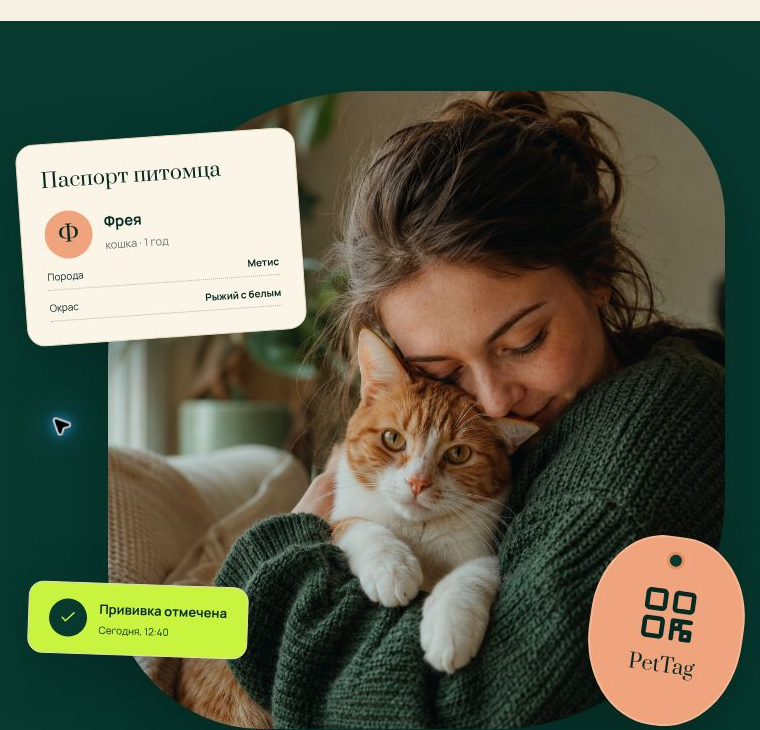
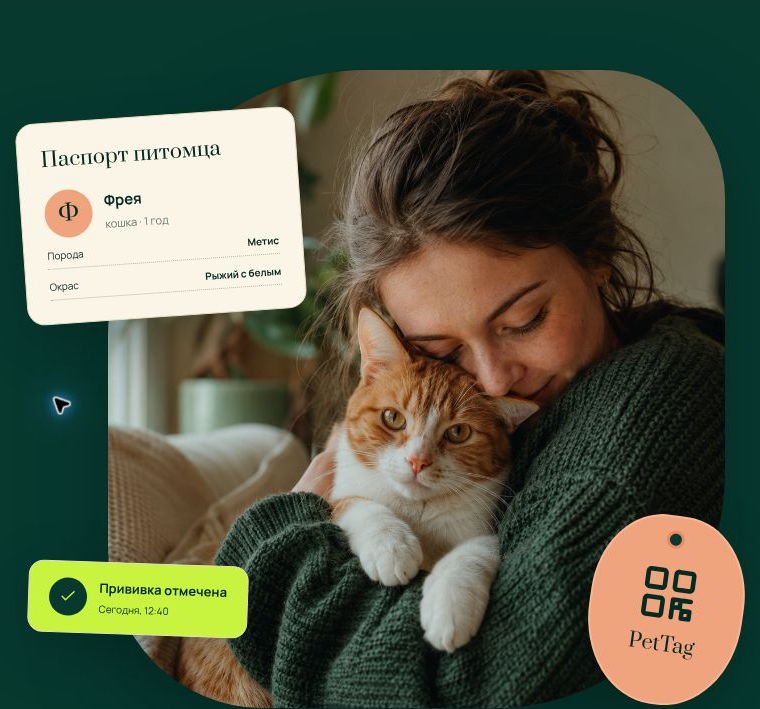
Polish landing page visuals and FAQ

diff --git a/app/assets/stylesheets/application.scss b/app/assets/stylesheets/application.scss
@@ -37,6 +37,7 @@
   margin: 0;
   background: #fffdf8;
   color: #14352d;
+  overflow-x: hidden;
 }
 
 .pj-landing-main {
@@ -68,6 +69,10 @@
   box-sizing: border-box;
 }
 
+.pj-landing {
+  overflow-wrap: anywhere;
+}
+
 .pj-landing h1,
 .pj-landing h2,
 .pj-landing h3,
@@ -88,6 +93,10 @@
   font-style: italic;
 }
 
+.pj-mobile-break {
+  display: none;
+}
+
 .pj-shell {
   width: min(1180px, calc(100% - 48px));
   margin-inline: auto;
@@ -101,23 +110,23 @@
 }
 
 .pj-header-inner {
-  min-height: 82px;
+  min-height: 78px;
   display: grid;
-  grid-template-columns: 210px 1fr auto;
+  grid-template-columns: 190px 1fr auto;
   align-items: center;
-  gap: 34px;
+  gap: 30px;
 }
 
 .pj-brand img {
   display: block;
-  width: 184px;
+  width: 168px;
   height: auto;
 }
 
 .pj-nav {
   display: flex;
   justify-content: center;
-  gap: clamp(20px, 3vw, 42px);
+  gap: clamp(22px, 3vw, 46px);
 }
 
 .pj-nav a,
@@ -136,7 +145,7 @@
 .pj-header-actions {
   display: flex;
   align-items: center;
-  gap: 20px;
+  gap: 18px;
 }
 
 .pj-button {
@@ -290,7 +299,7 @@
 }
 
 .pj-hero-visual img {
-  width: min(660px, 110%);
+  width: min(652px, 108%);
   height: auto;
   display: block;
 }
@@ -355,7 +364,23 @@
   flex-direction: column;
   border: 1px solid var(--pj-border);
   border-radius: 10px;
-  background: #fff;
+  background:
+    linear-gradient(180deg, rgba(247, 241, 229, .42), rgba(255, 253, 248, .96) 42%),
+    #fffdf8;
+  box-shadow: 0 14px 34px rgba(7, 57, 47, .045);
+  position: relative;
+  overflow: hidden;
+}
+
+.pj-feature-grid article::before {
+  content: "";
+  height: 4px;
+  left: 32px;
+  position: absolute;
+  right: 32px;
+  top: 0;
+  background: var(--pj-mint);
+  border-radius: 0 0 999px 999px;
 }
 
 .pj-icon {
@@ -375,7 +400,8 @@
 .pj-privacy-card h3 {
   margin-bottom: 10px;
   color: var(--pj-ink);
-  font-size: 20px;
+  font-size: 21px;
+  line-height: 1.2;
   font-weight: 800;
 }
 
@@ -383,17 +409,24 @@
   margin-bottom: 22px;
   color: var(--pj-muted);
   font-size: 14px;
+  line-height: 1.7;
 }
 
 .pj-feature-grid small {
   margin-top: auto;
   color: #567168;
+  font-size: 13px;
   font-weight: 800;
 }
 
 .pj-feature-grid .pj-feature-dark {
   border-color: var(--pj-green);
   background: var(--pj-green);
+  box-shadow: 0 18px 44px rgba(7, 57, 47, .18);
+}
+
+.pj-feature-grid .pj-feature-dark::before {
+  background: var(--pj-lime);
 }
 
 .pj-feature-dark h3,
@@ -569,25 +602,31 @@
 }
 
 .pj-step-grid article {
+  min-height: 230px;
+  padding: 8px 18px 0;
   position: relative;
   text-align: center;
 }
 
 .pj-step-grid article > b {
+  display: block;
+  inset-inline: 0;
+  line-height: 1;
   position: absolute;
-  top: -22px;
-  left: calc(50% - 72px);
+  text-align: center;
+  top: -8px;
   color: #d6e0db;
   font-family: Georgia, serif;
   font-size: 70px;
   font-weight: 400;
+  pointer-events: none;
   z-index: 0;
 }
 
 .pj-step-icon {
   width: 88px;
   height: 88px;
-  margin: 0 auto 26px;
+  margin: 22px auto 26px;
   position: relative;
   z-index: 1;
   display: grid;
@@ -840,21 +879,92 @@
 }
 
 @media (max-width: 680px) {
-  .pj-shell { width: min(100% - 32px, 1180px); }
-  .pj-header-inner { min-height: 70px; }
-  .pj-brand img { width: 150px; }
+  .pj-landing {
+    max-width: 100vw;
+  }
+
+  .pj-shell {
+    max-width: calc(100vw - 32px);
+    width: calc(100vw - 32px);
+  }
+
+  .pj-header-inner {
+    grid-template-columns: 1fr;
+    min-height: 70px;
+  }
+  .pj-brand {
+    min-width: 0;
+  }
+  .pj-brand img { width: 132px; }
   .pj-login { display: none; }
-  .pj-button-small { min-height: 40px; padding-inline: 14px; font-size: 12px; }
+  .pj-header-actions { display: none; }
+  .pj-button-small {
+    min-height: 40px;
+    max-width: 168px;
+    padding-inline: 12px;
+    font-size: 12px;
+    line-height: 1.15;
+    text-align: center;
+    white-space: normal;
+  }
   .pj-hero-copy { padding-top: 54px; }
-  .pj-hero h1 { font-size: 46px; }
-  .pj-hero-copy > p { font-size: 16px; }
+  .pj-hero-copy {
+    max-width: 100%;
+    overflow: hidden;
+  }
+  .pj-eyebrow,
+  .pj-kicker {
+    line-height: 1.45;
+    max-width: 286px;
+  }
+  .pj-hero h1 {
+    font-size: clamp(32px, 9vw, 36px);
+    line-height: 1.08;
+    margin-inline: auto;
+    max-width: 286px;
+  }
+  .pj-mobile-break { display: initial; }
+  .pj-hero-copy > p {
+    font-size: 15px;
+    max-width: 286px;
+  }
   .pj-hero-actions { flex-direction: column; gap: 18px; }
+  .pj-proof {
+    align-items: center;
+    flex-direction: column;
+    text-align: center;
+  }
+  .pj-hero-visual {
+    max-width: 100%;
+    overflow: hidden;
+  }
+  .pj-hero-visual img {
+    max-width: none;
+    width: min(460px, 124vw);
+  }
   .pj-marquee .pj-shell { justify-content: center; overflow: hidden; }
-  .pj-marquee span:nth-of-type(n+3), .pj-marquee b:nth-of-type(n+3) { display: none; }
+  .pj-marquee span:nth-of-type(n+2), .pj-marquee b { display: none; }
   .pj-section { padding: 78px 0; }
-  .pj-section-heading h2, .pj-centered-heading h2, .pj-product h2, .pj-tag-section h2, .pj-privacy h2, .pj-faq h2 { font-size: 42px; }
+  .pj-section-heading h2, .pj-centered-heading h2, .pj-product h2, .pj-tag-section h2, .pj-privacy h2, .pj-faq h2 {
+    font-size: 38px;
+    max-width: 100%;
+  }
+  .pj-section-heading p,
+  .pj-product p,
+  .pj-faq p,
+  .pj-feature-grid p {
+    max-width: 286px;
+  }
   .pj-feature-grid, .pj-step-grid, .pj-privacy-grid { grid-template-columns: 1fr; }
-  .pj-feature-grid article { min-height: 250px; }
+  .pj-feature-grid {
+    display: flex;
+    flex-direction: column;
+  }
+  .pj-feature-grid article {
+    min-height: 250px;
+    max-width: 100%;
+    width: 100%;
+  }
   .pj-step-grid { gap: 62px; }
   .pj-dashboard-demo { margin-inline: -8px; padding: 18px; transform: none; }
   .pj-demo-top { font-size: 18px; }
